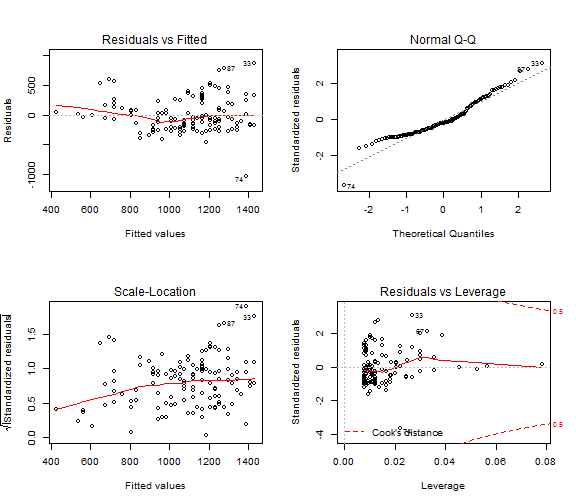
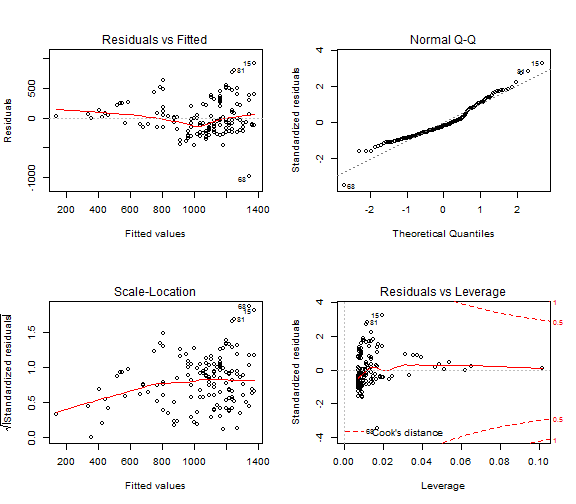
commit from home

diff --git a/index.html b/index.html
@@ -176,7 +176,7 @@ Profesores: </br> Marcos Colebrook Santamaría </br> Carlos Pérez González
 </ul>
 <pre class="sourceCode r"><code class="sourceCode r">x &lt;-<span class="st"> &quot;ahora x es una cadena.&quot;</span>
 x
-x &lt;-<span class="st"> </span><span class="kw">c</span>(<span class="dv">3</span>, <span class="dv">4</span>, <span class="dv">5</span>, <span class="dv">6</span>, <span class="dv">7</span>, <span class="dv">8</span>)  <span class="co"># c() combina valores en un vector.</span>
+x &lt;-<span class="st"> </span><span class="kw">c</span>(<span class="dv">3</span>, <span class="dv">4</span>, <span class="dv">5</span>, <span class="dv">6</span>, <span class="dv">7</span>, <span class="dv">8</span>)  <span class="co"># c() combina valores en un vector. </span>
 x</code></pre>
 <ul>
 <li>Acceder a elementos de un vector <code>x</code> con <code>x[n]</code></li>
@@ -631,7 +631,9 @@ datos_filt4 &lt;-<span class="st"> </span><span class="kw">subset</span>(datos, 
 <pre class="sourceCode r"><code class="sourceCode r"><span class="kw">require</span>(devtools)
 <span class="kw">source_gist</span>(<span class="st">&quot;1e7ee71e79346ffdd5a5&quot;</span>)
 <span class="kw">plotHistBox</span>(ddt$length)</code></pre>
-<p><img src="figure/plot6a1.png" /> <img src="figure/plot6a2.png" /></p>
+<div class="figure">
+<img src="figure/plot6a.png" />
+</div>
 </div>
 <div id="nivel-avanzado-gráficos-más-complejos-1" class="slide section level1">
 <h1>Nivel avanzado: Gráficos más complejos</h1>
@@ -643,9 +645,10 @@ datos_filt4 &lt;-<span class="st"> </span><span class="kw">subset</span>(datos, 
 <span class="kw">with</span>(ddt, <span class="kw">hist</span>(weight[species ==<span class="st"> </span><span class="dv">1</span>], <span class="dt">breaks =</span> h1$breaks, <span class="dt">col =</span> <span class="st">&quot;blue&quot;</span>, <span class="dt">main =</span> <span class="st">&quot;Histograma de weight&quot;</span>, 
     <span class="dt">xlab =</span> <span class="st">&quot;weight&quot;</span>))
 <span class="kw">with</span>(ddt, <span class="kw">hist</span>(weight[species ==<span class="st"> </span><span class="dv">2</span>], <span class="dt">breaks =</span> h1$breaks, <span class="dt">col =</span> <span class="st">&quot;red&quot;</span>, <span class="dt">add =</span> <span class="ot">TRUE</span>))
+<span class="kw">with</span>(ddt, <span class="kw">hist</span>(weight[species ==<span class="st"> </span><span class="dv">3</span>], <span class="dt">breaks =</span> h1$breaks, <span class="dt">col =</span> <span class="st">&quot;green&quot;</span>, <span class="dt">add =</span> <span class="ot">TRUE</span>))
 
 <span class="kw">legend</span>(<span class="st">&quot;topright&quot;</span>, <span class="kw">sort</span>(<span class="kw">levels</span>(ddt$species_name), <span class="dt">decreasing =</span> <span class="ot">TRUE</span>), <span class="dt">fill =</span> <span class="kw">c</span>(<span class="st">&quot;blue&quot;</span>, 
-    <span class="st">&quot;red&quot;</span>))</code></pre>
+    <span class="st">&quot;red&quot;</span>, <span class="st">&quot;green&quot;</span>))</code></pre>
 <div class="figure">
 <img src="figure/plot6b.png" />
 </div>
@@ -677,7 +680,9 @@ datos_filt4 &lt;-<span class="st"> </span><span class="kw">subset</span>(datos, 
 <span class="kw">scatterplot</span>(length ~<span class="st"> </span>weight |<span class="st"> </span>group, <span class="dt">reg.line =</span> lm, <span class="dt">smooth =</span> <span class="ot">FALSE</span>, 
     <span class="dt">spread =</span> <span class="ot">FALSE</span>, <span class="dt">boxplots =</span> <span class="ot">FALSE</span>, <span class="dt">span =</span> <span class="fl">0.5</span>, <span class="dt">by.groups =</span> <span class="ot">TRUE</span>, 
     <span class="dt">reset.par =</span> <span class="ot">FALSE</span>, <span class="dt">data =</span> ddt)</code></pre>
-<p><img src="figure/plot8a1.png" /> <img src="figure/plot8a2.png" /></p>
+<div class="figure">
+<img src="figure/plot8a.png" />
+</div>
 </div>
 <div id="otros-gráficos-en-rcmdr-2" class="slide section level1">
 <h1>Otros gráficos en Rcmdr</h1>
@@ -762,7 +767,7 @@ datos_filt4 &lt;-<span class="st"> </span><span class="kw">subset</span>(datos, 
 ##  Shapiro-Wilk normality test
 ## 
 ## data:  ddt$weight
-## W = 0.9727, p-value = 0.009211</code></pre>
+## W = 0.9825, p-value = 0.06299</code></pre>
 <p>Si hay dudas en la normalidad, el t-test no se puede aplicar y hay que acudir a alternativas no paramétricas.</p>
 </div>
 <div id="ejercicio-6-1" class="slide section level1">
@@ -776,7 +781,7 @@ datos_filt4 &lt;-<span class="st"> </span><span class="kw">subset</span>(datos, 
 ##  Bartlett test of homogeneity of variances
 ## 
 ## data:  weight by group
-## Bartlett&#39;s K-squared = 0.0095, df = 1, p-value = 0.9225</code></pre>
+## Bartlett&#39;s K-squared = 0.1329, df = 1, p-value = 0.7155</code></pre>
 <p>Si las varianzas entre grupos son iguales, se debe especificar en opciones del t-test (aprox. Welch).</p>
 </div>
 <div id="tests-no-paramétricos" class="slide section level1">
@@ -825,13 +830,13 @@ datos_filt4 &lt;-<span class="st"> </span><span class="kw">subset</span>(datos, 
 ##  Bartlett test of homogeneity of variances
 ## 
 ## data:  weight by location_name
-## Bartlett&#39;s K-squared = 1.418, df = 2, p-value = 0.4921</code></pre>
+## Bartlett&#39;s K-squared = 0.7883, df = 2, p-value = 0.6742</code></pre>
 <pre class="sourceCode r"><code class="sourceCode r"><span class="co"># En caso de homoc. podemos hacer anova</span>
 anova.mod1 &lt;-<span class="st"> </span><span class="kw">aov</span>(weight ~<span class="st"> </span>location_name, <span class="dt">data =</span> ddt)
 <span class="kw">summary</span>(anova.mod1)</code></pre>
 <pre><code>##                Df   Sum Sq Mean Sq F value Pr(&gt;F)  
-## location_name   2   622760  311380    2.48  0.087 .
-## Residuals     129 16175534  125392                 
+## location_name   2   942700  471350    3.44  0.035 *
+## Residuals     141 19332838  137112                 
 ## ---
 ## Signif. codes:  0 &#39;***&#39; 0.001 &#39;**&#39; 0.01 &#39;*&#39; 0.05 &#39;.&#39; 0.1 &#39; &#39; 1</code></pre>
 <pre class="sourceCode r"><code class="sourceCode r"><span class="co"># Si no se asume var. cte. o no hay normalidad, recurrimos al test K.-W.</span>
@@ -840,7 +845,7 @@ anova.mod1 &lt;-<span class="st"> </span><span class="kw">aov</span>(weight ~<sp
 ##  Kruskal-Wallis rank sum test
 ## 
 ## data:  weight by location_name
-## Kruskal-Wallis chi-squared = 4.021, df = 2, p-value = 0.1339</code></pre>
+## Kruskal-Wallis chi-squared = 6.13, df = 2, p-value = 0.04665</code></pre>
 </div>
 <div id="ejercicio-7-1" class="slide section level1">
 <h1>Ejercicio 7</h1>
@@ -852,22 +857,8 @@ anova.mod1 &lt;-<span class="st"> </span><span class="kw">aov</span>(weight ~<sp
 </ul>
 <pre class="sourceCode r"><code class="sourceCode r">anova.mod1 &lt;-<span class="st"> </span><span class="kw">aov</span>(weight ~<span class="st"> </span>location_name, <span class="dt">data =</span> ddt)
 <span class="kw">summary</span>(<span class="kw">glht</span>(anova.mod1, <span class="dt">linfct =</span> <span class="kw">mcp</span>(<span class="dt">location_name =</span> <span class="st">&quot;Tukey&quot;</span>)))  <span class="co"># pairwise tests</span></code></pre>
-<pre><code>## 
-##   Simultaneous Tests for General Linear Hypotheses
-## 
-## Multiple Comparisons of Means: Tukey Contrasts
-## 
-## 
-## Fit: aov(formula = weight ~ location_name, data = ddt)
-## 
-## Linear Hypotheses:
-##                           Estimate Std. Error t value Pr(&gt;|t|)  
-## CursoM - Afluente == 0       105.4       74.8    1.41    0.339  
-## Desemboca - Afluente == 0    170.5       77.3    2.21    0.074 .
-## Desemboca - CursoM == 0       65.0       74.8    0.87    0.660  
-## ---
-## Signif. codes:  0 &#39;***&#39; 0.001 &#39;**&#39; 0.01 &#39;*&#39; 0.05 &#39;.&#39; 0.1 &#39; &#39; 1
-## (Adjusted p values reported -- single-step method)</code></pre>
+<pre><code>## Error: could not find function &quot;glht&quot;</code></pre>
+<pre><code>## Error: could not find function &quot;glht&quot;</code></pre>
 <div class="figure">
 <img src="figure/plot3.png" />
 </div>
@@ -899,19 +890,19 @@ anova.mod1 &lt;-<span class="st"> </span><span class="kw">aov</span>(weight ~<sp
 ## lm(formula = weight ~ length, data = ddt)
 ## 
 ## Residuals:
-##     Min      1Q  Median      3Q     Max 
-## -1034.0  -203.6   -58.8   179.3   870.5 
+##    Min     1Q Median     3Q    Max 
+## -990.0 -189.4  -49.5  193.7  923.2 
 ## 
 ## Coefficients:
 ##             Estimate Std. Error t value Pr(&gt;|t|)    
-## (Intercept)  -886.11     229.73   -3.86  0.00018 ***
-## length         44.57       5.16    8.64  1.7e-14 ***
+## (Intercept)  -483.67     150.50   -3.21   0.0016 ** 
+## length         35.82       3.47   10.32   &lt;2e-16 ***
 ## ---
 ## Signif. codes:  0 &#39;***&#39; 0.001 &#39;**&#39; 0.01 &#39;*&#39; 0.05 &#39;.&#39; 0.1 &#39; &#39; 1
 ## 
-## Residual standard error: 286 on 130 degrees of freedom
-## Multiple R-squared:  0.365,  Adjusted R-squared:  0.36 
-## F-statistic: 74.7 on 1 and 130 DF,  p-value: 1.73e-14</code></pre>
+## Residual standard error: 286 on 142 degrees of freedom
+## Multiple R-squared:  0.429,  Adjusted R-squared:  0.424 
+## F-statistic:  106 on 1 and 142 DF,  p-value: &lt;2e-16</code></pre>
 </div>
 <div id="análisis-de-modelos" class="slide section level1">
 <h1>Análisis de modelos</h1>
@@ -920,8 +911,8 @@ anova.mod1 &lt;-<span class="st"> </span><span class="kw">aov</span>(weight ~<sp
 </ul>
 <pre class="sourceCode r"><code class="sourceCode r"><span class="kw">cor</span>(ddt[, <span class="kw">c</span>(<span class="st">&quot;length&quot;</span>, <span class="st">&quot;weight&quot;</span>)], <span class="dt">use =</span> <span class="st">&quot;complete&quot;</span>)</code></pre>
 <pre><code>##        length weight
-## length 1.0000 0.6041
-## weight 0.6041 1.0000</code></pre>
+## length 1.0000 0.6546
+## weight 0.6546 1.0000</code></pre>
 <ul>
 <li>La representación gráfica de un modelo simple es posible en 'Gráficas-&gt;Diagrama de dispersión' seleccionando la opción de mínimos cuadrados. Pero se puede hacer también con <code>plot()</code> y <code>abline()</code></li>
 </ul>
